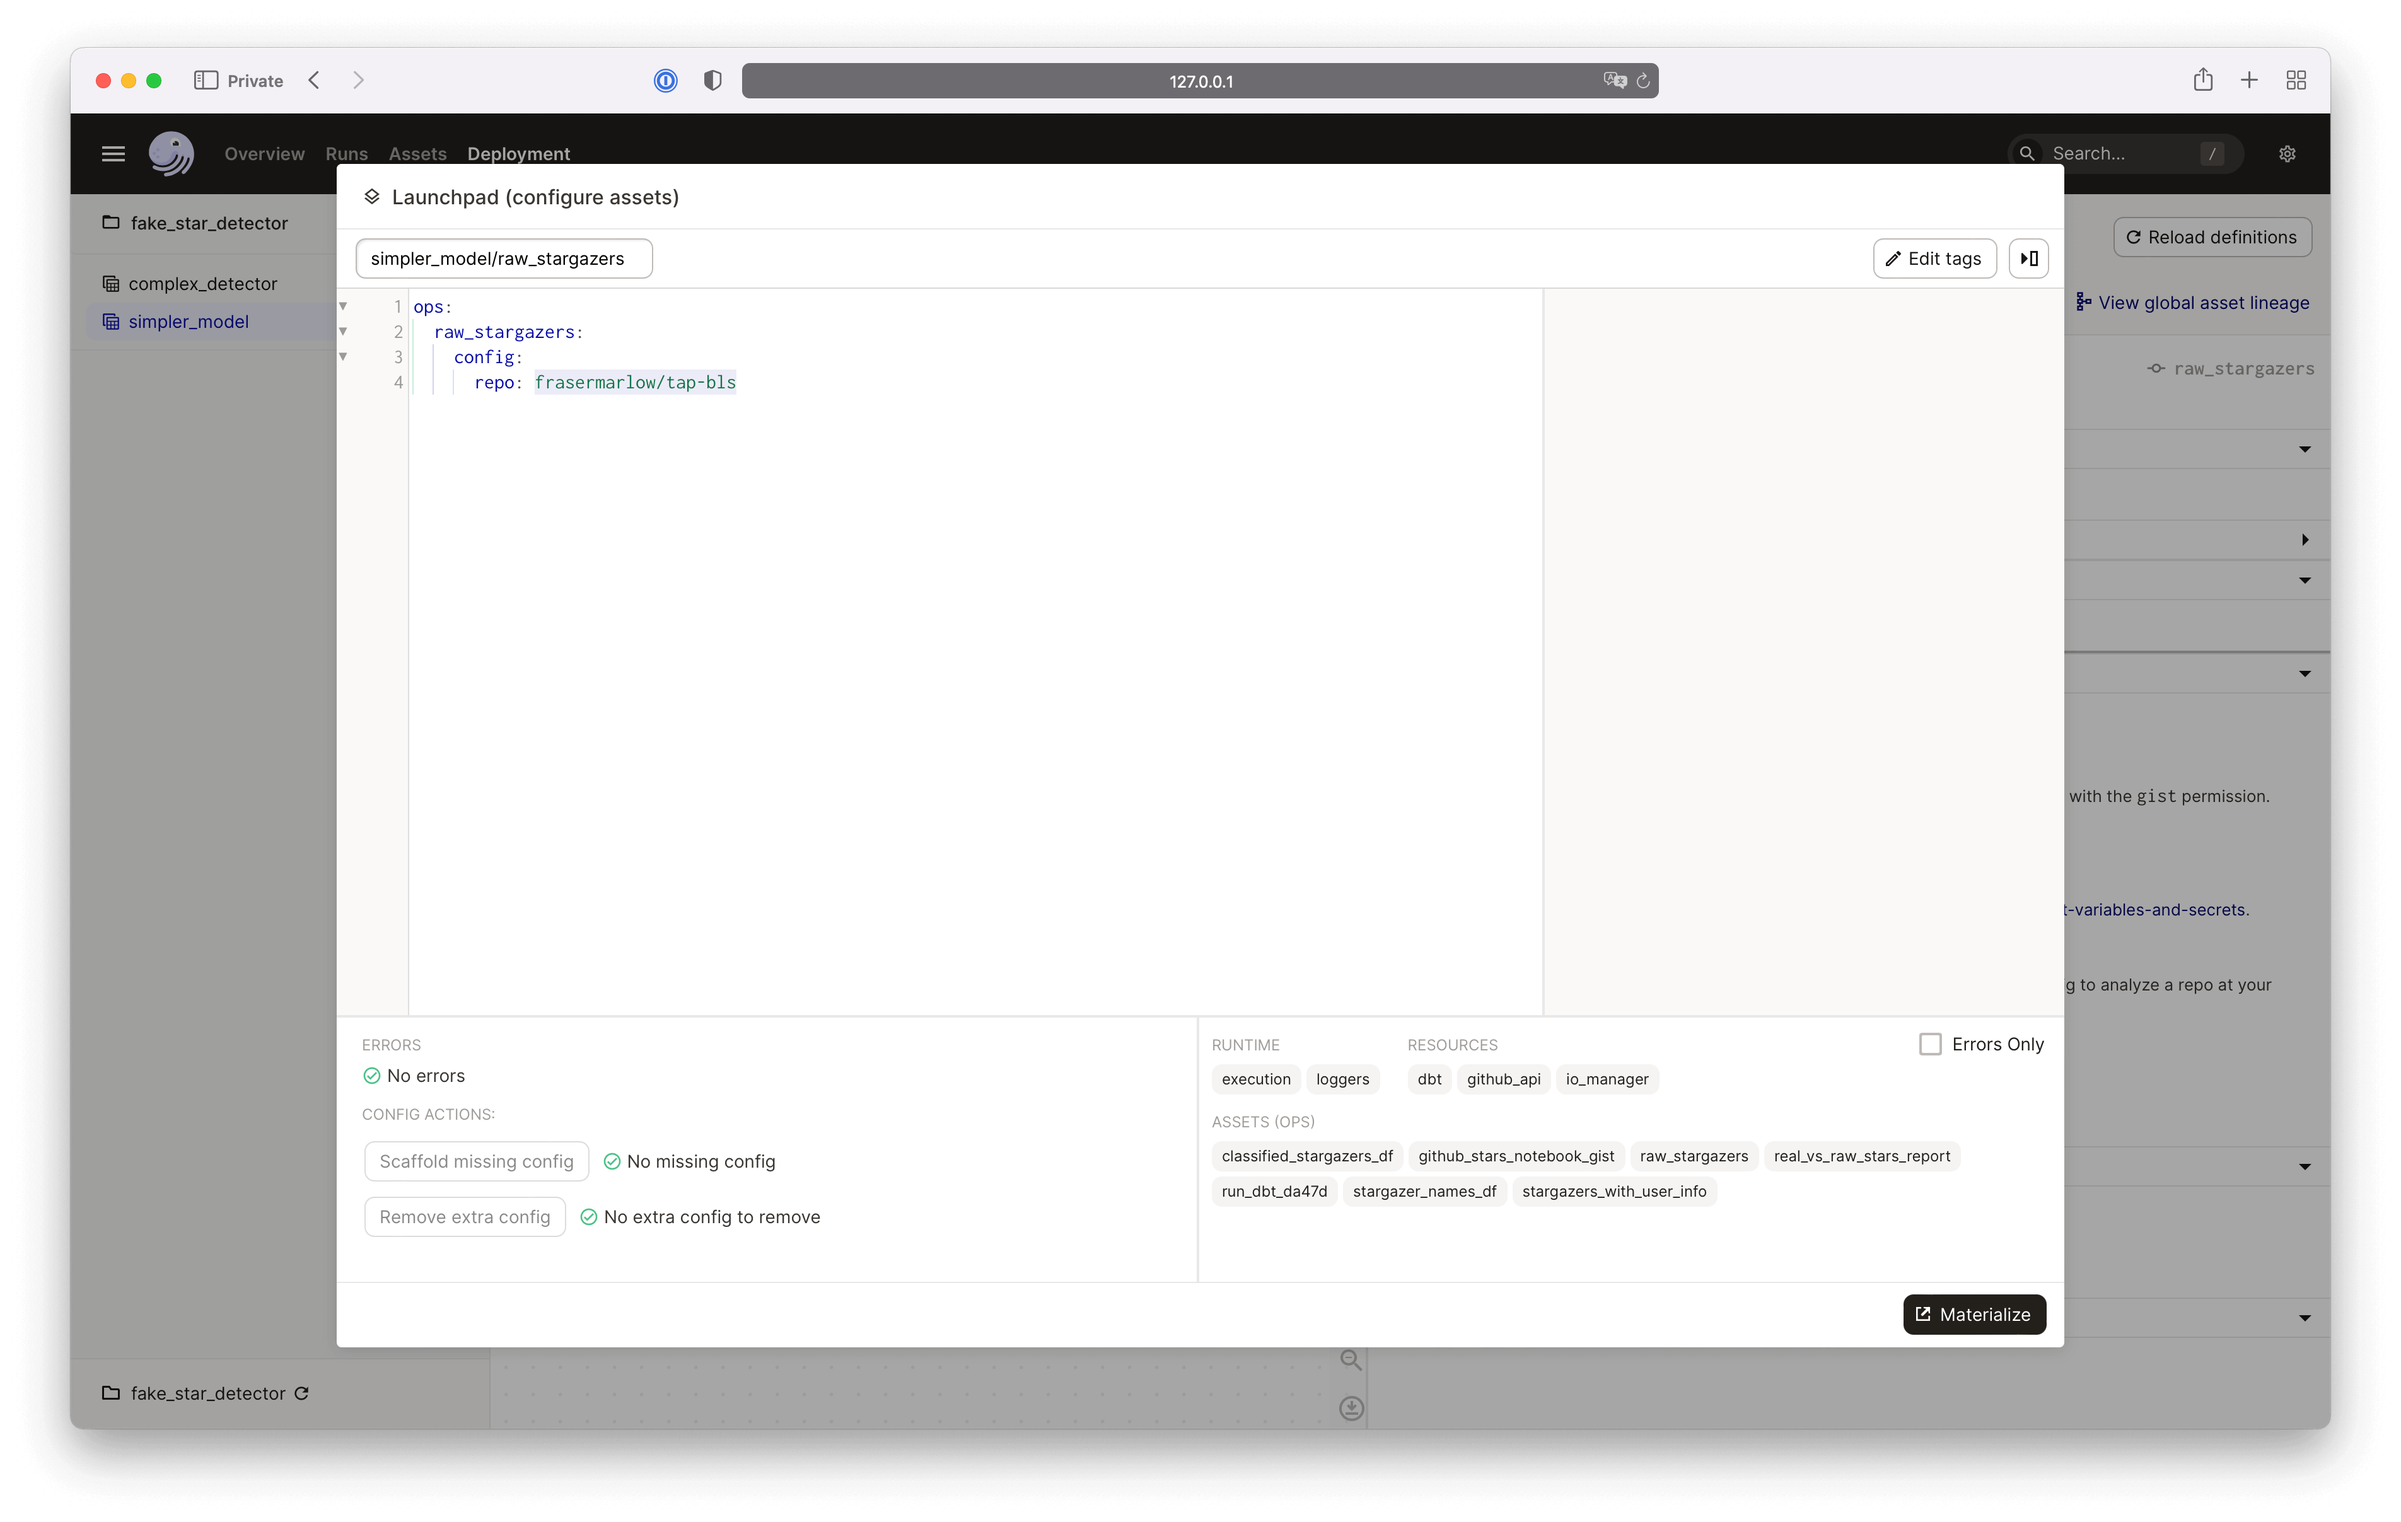
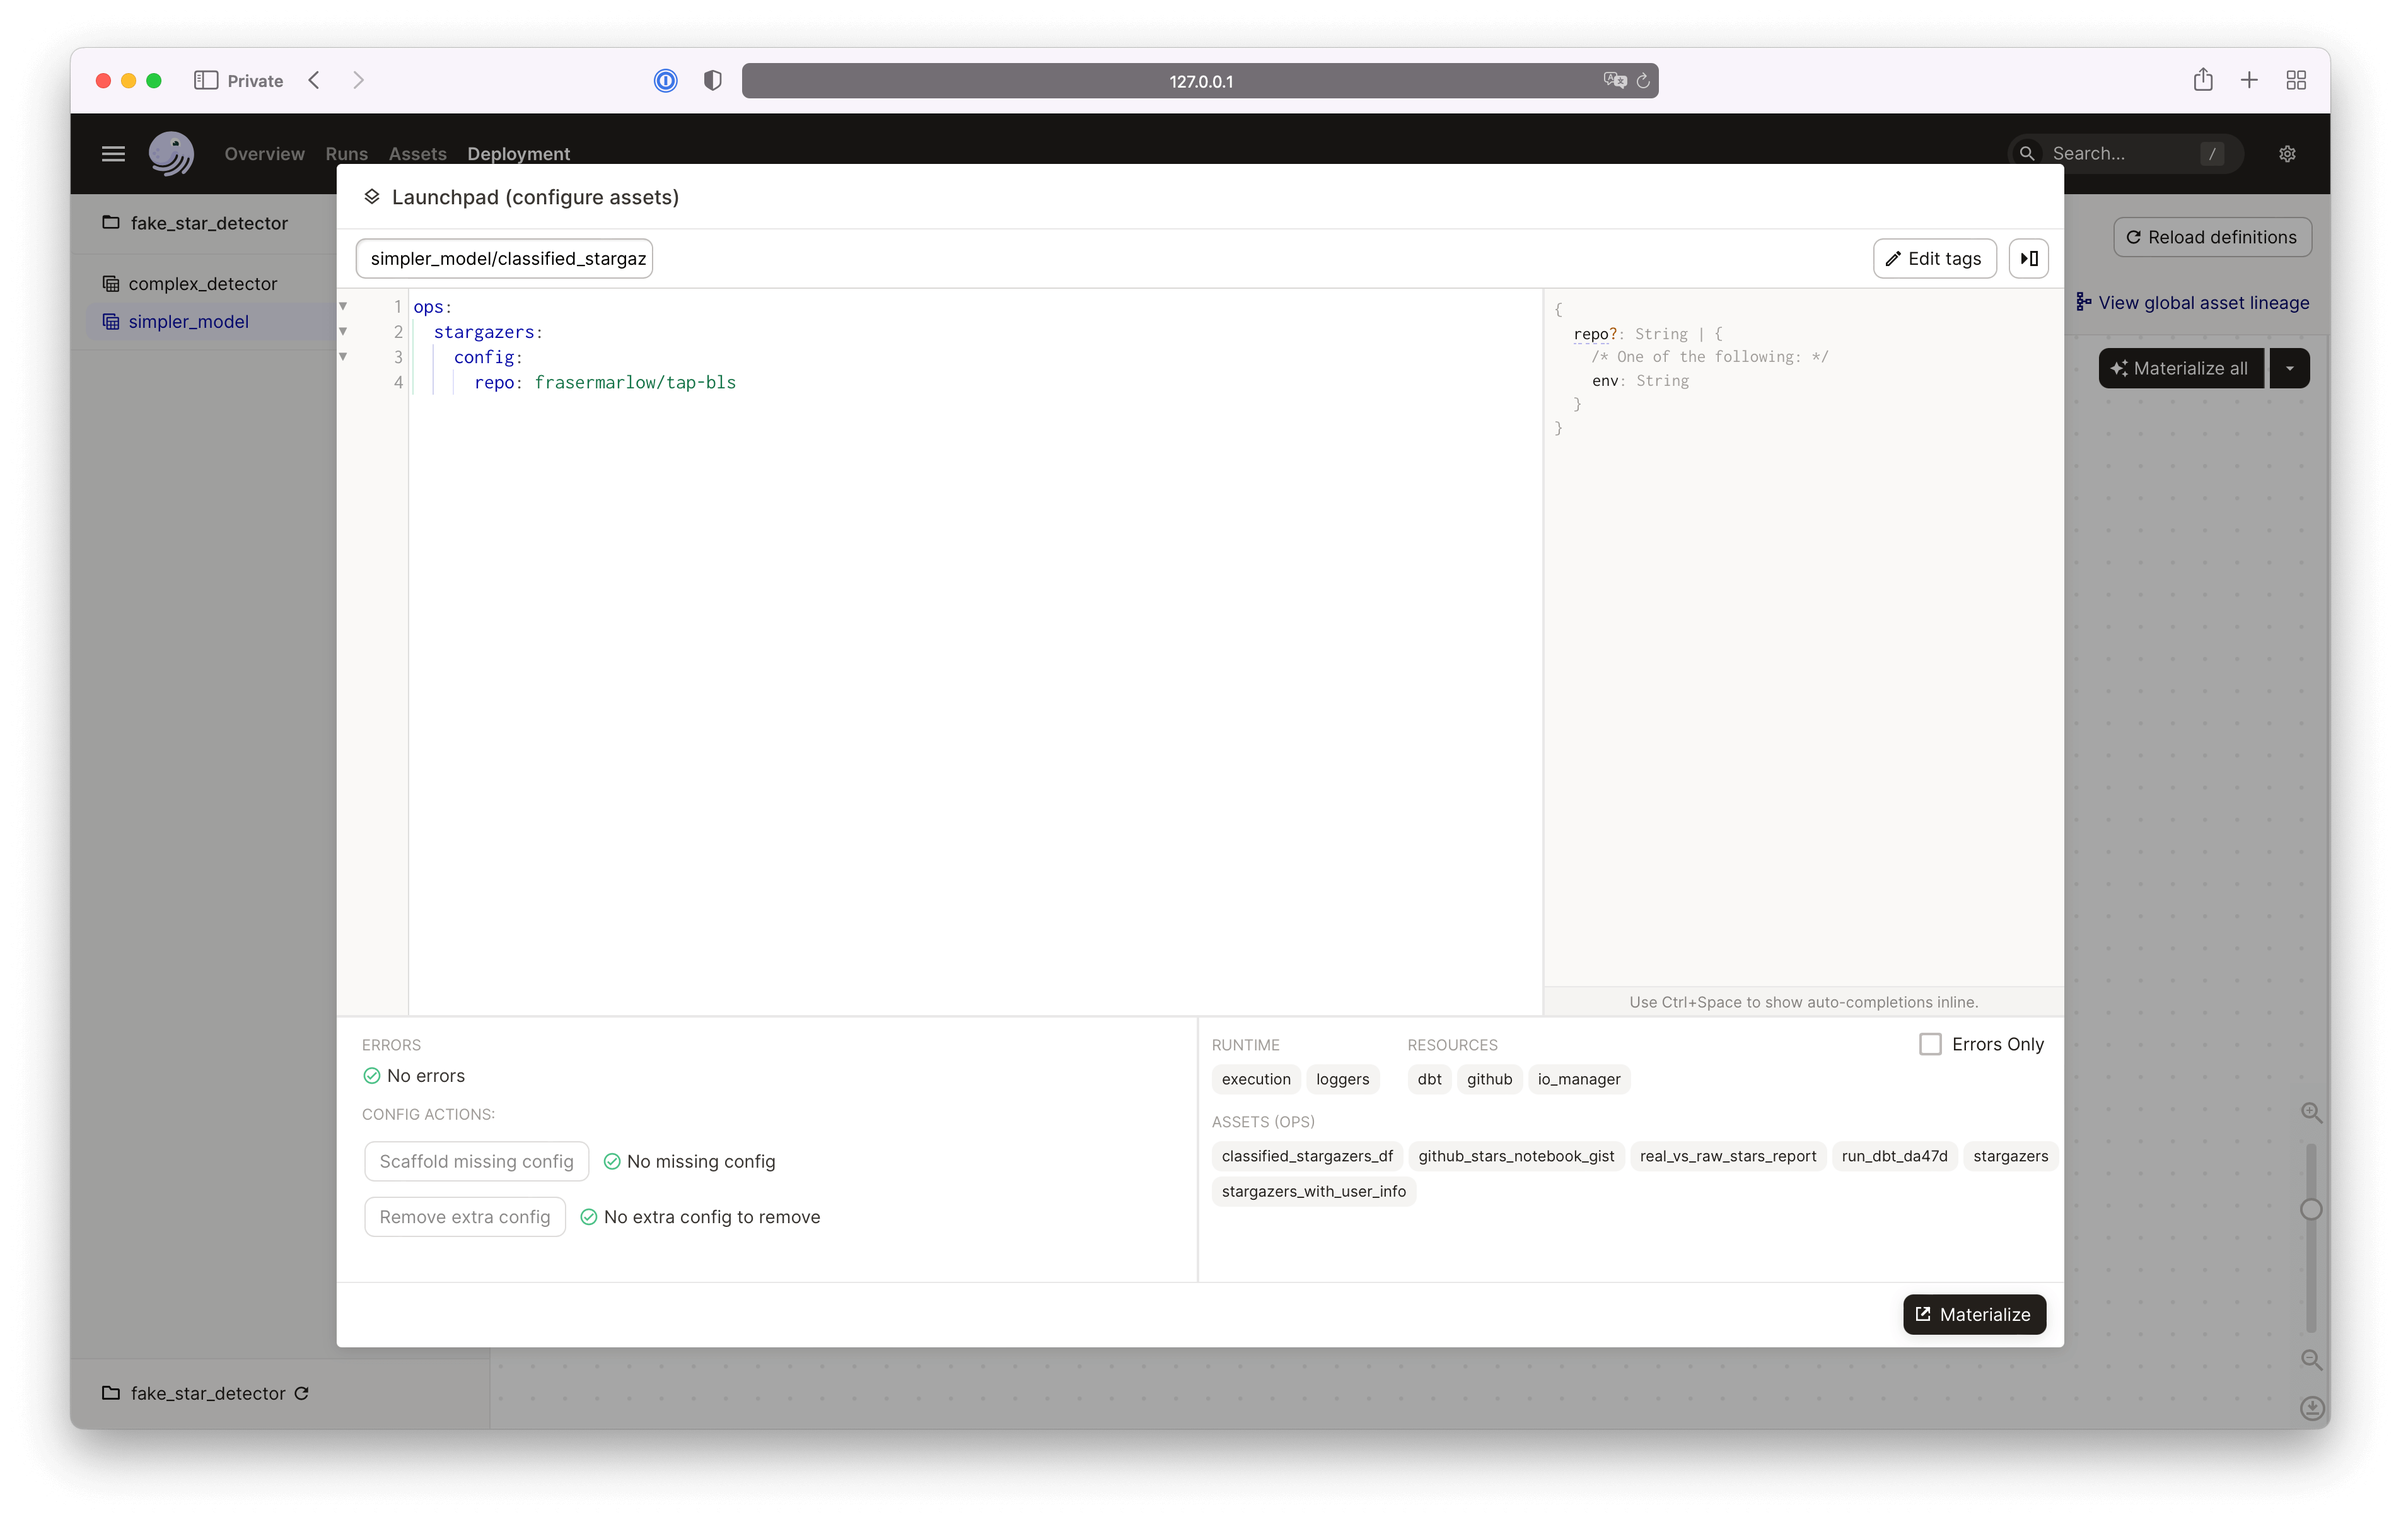
update README

diff --git a/README.md b/README.md
@@ -118,7 +118,7 @@ You can also specify a different repo by Shift+clicking "Materialize all" on the
 
 ```yaml
 ops:
-    raw_stargazers:
+    stargazers:
         config:
             repo: <insert name of the repo to analyze>
 ```
